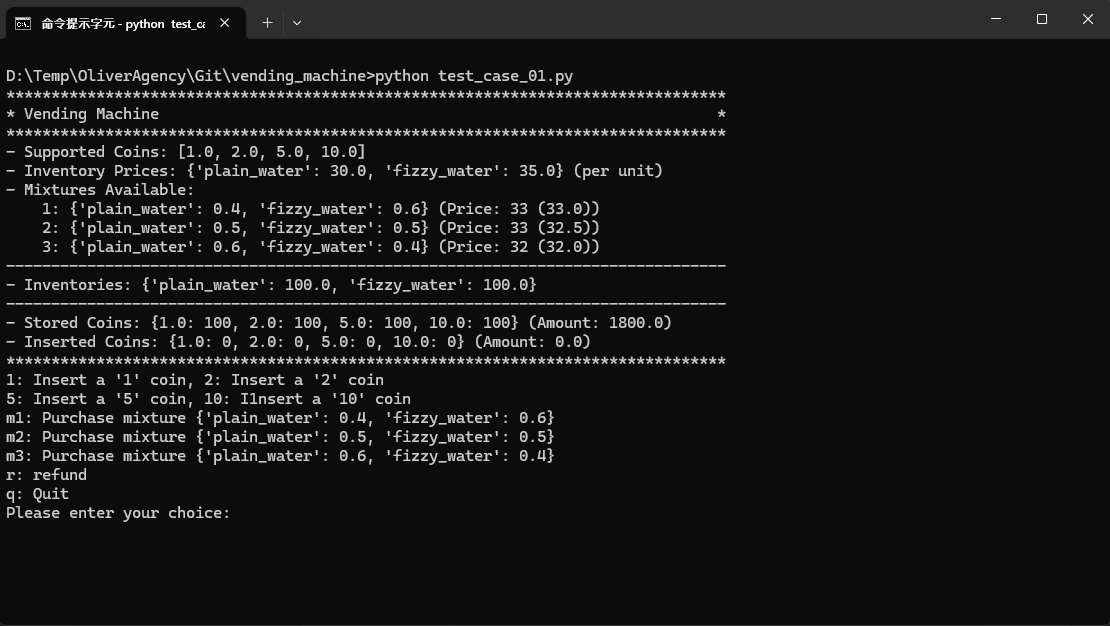
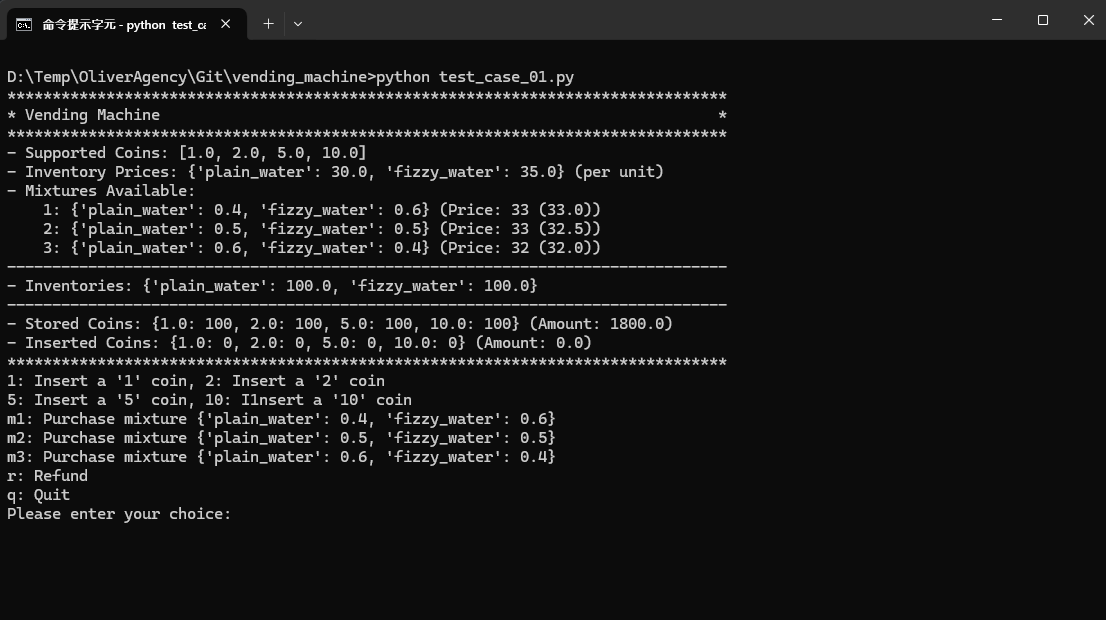
UI fix

Changed region(s): [[0.0, 0.0919, 0.6763, 0.8581], [0.0, 0.0, 0.2459, 0.0613]]

diff --git a/test_case_01.py b/test_case_01.py
@@ -33,8 +33,8 @@ if __name__ == "__main__":
     vending_machine.store_coin(10, 100)
 
     # prepare water for sale
-    vending_machine.add_inventory("plain_water", 100)
-    vending_machine.add_inventory("fizzy_water", 100)
+    vending_machine.add_inventory("plain_water", 100.0)
+    vending_machine.add_inventory("fizzy_water", 100.0)
 
     user_input = ""
     while user_input != "q":
@@ -47,7 +47,7 @@ if __name__ == "__main__":
         print(f"m1: Purchase mixture {vending_machine.get_supported_mixture(1)}")
         print(f"m2: Purchase mixture {vending_machine.get_supported_mixture(2)}")
         print(f"m3: Purchase mixture {vending_machine.get_supported_mixture(3)}")
-        print(f"r: refund")
+        print(f"r: Refund")
         print(f"q: Quit")
         user_input = input("Please enter your choice: ")
 

diff --git a/README.md b/README.md
@@ -62,6 +62,6 @@ vending_machine.store_coin(5, 100)
 vending_machine.store_coin(10, 100)
 
 # prepare water for sale
-vending_machine.add_inventory("plain_water", 100)
-vending_machine.add_inventory("fizzy_water", 100)
+vending_machine.add_inventory("plain_water", 100.0)
+vending_machine.add_inventory("fizzy_water", 100.0)
 ```
